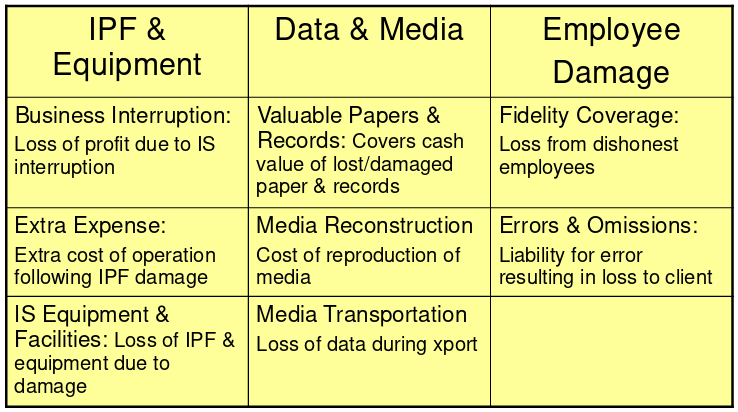
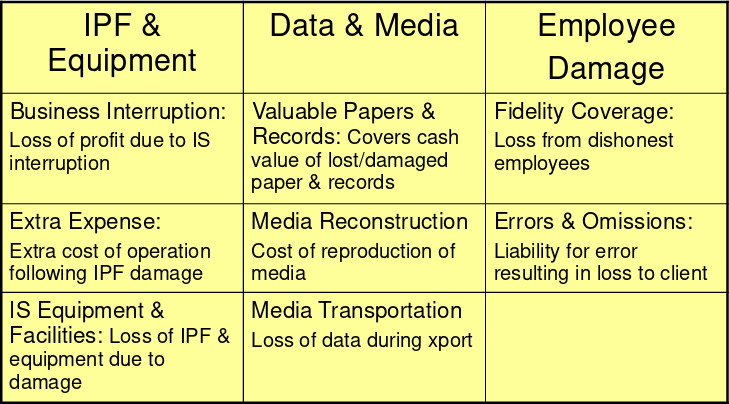
Add caption to figure about insurance to solve issue #48  + Autocrop image to make the image symmetric

Changed region(s): [[0.0, 0.0, 1.0, 1.0]]

diff --git a/res/sections/14-Les14032017.tex b/res/sections/14-Les14032017.tex
@@ -224,6 +224,11 @@ assicurazione.
 \begin{figure}[H]
 \centering
 \includegraphics[scale=0.5]{insurance}
+\caption[Danni contro i quali ci si può assicurare divisi per
+tipologia]{Danni contro i quali ci si può assicurare divisi per
+tipologia. La sigla IPF sta per Information Processing Facility
+ed è l'edificio che ospita il data center.}
+\label{fig:insurance}
 \end{figure}
 
 
